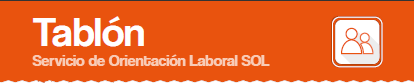
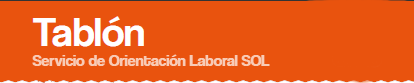
v1

Changed region(s): [[0.7826, 0.1928, 0.9275, 0.8193], [0.7246, 0.0, 0.9855, 0.0241], [0.8116, 0.9639, 0.8986, 1.0]]

diff --git a/www/css/styles_content.css b/www/css/styles_content.css
@@ -5,33 +5,45 @@
 
 #contenido {height:100%; overflow:auto; padding-top:20%;}
 
-#menu-pie { position:fixed; bottom:0; left:0; width:100%;}
+#contenido input{ width:90%; border-radius:10px;}
+
+#contenido #contenedorCita{ text-align:center;}
+
+#contenido #contenedorSesion{ text-align:center;}
+
+#menu-pie { background:url("../img/fondo.png") no-repeat center center fixed; position:fixed; bottom:0; left:0; width:100%; padding:10px; text-align:center;}
+
+#menu-pie input{ margin:0 3% 0 3%;}
 
 #menu-pie #mendest{background:url("../img/bdestacado.png") no-repeat;background-repeat:no-repeat;
-background-size:50px;
+background-size:60px;
 background-color:#fff;
-border-radius:5px;
-  height:50px;
-  width:50px;
+border-radius:10px;
+  height:60px;
+  width:60px;
   background-position:center;}
 #menu-pie #menaviso{ background:url("../img/baviso.png") no-repeat;background-repeat:no-repeat;
-background-size:50px;
+background-size:60px;
 background-color:#fff;
-border-radius:5px;
-  height:50px;
-  width:50px;
+border-radius:10px;
+  height:60px;
+  width:60px;
   background-position:center;}
 #menu-pie #mencita{ background:url("../img/bcita.png") no-repeat;background-repeat:no-repeat;
-background-size:50px;
+background-size:60px;
 background-color:#fff;
-border-radius:5px;
-  height:50px;
-  width:50px;
+border-radius:10px;
+  height:60px;
+  width:60px;
   background-position:center;}
-#menu-pie #meniniciar{ background:url("../img/binicio.png") no-repeat;background-repeat:no-repeat;
-background-size:50px;
-border-radius:5px;
+#cabecera #meniniciar{ 
+position:absolute;
+top:20%;
+right:10%;
+background:url("../img/binicio.png") no-repeat;background-repeat:no-repeat;
+background-size:60px;
+border-radius:10px;
 border-color:#fff;
-  height:50px;
-  width:50px;
+  height:60px;
+  width:60px;
   background-position:center;}

diff --git a/www/pagina2.html b/www/pagina2.html
@@ -25,6 +25,7 @@ eval(arrVariableActual[0]+"="+arrVariableActual[1]+";");
 <div id="appsolListPage" data-role="page">
 
 	<div id="cabecera">
+    	<input type="button" onclick="getSesionForm();" id="meniniciar">
 		<img id="imgcab" src="img/cab_descatado.png">
 	</div>
     
@@ -59,7 +60,6 @@ eval(arrVariableActual[0]+"="+arrVariableActual[1]+";");
     	<input type="button" onclick="getDestacadosList();" id="mendest">
         <input type="button" onclick="getCitaForm();" id="mencita">
         <input type="button" onclick="getAvisosList();" id="menaviso">
-        <input type="button" onclick="getSesionForm();" id="meniniciar">
 	</div><!-- /navbar -->
     
 </div>
